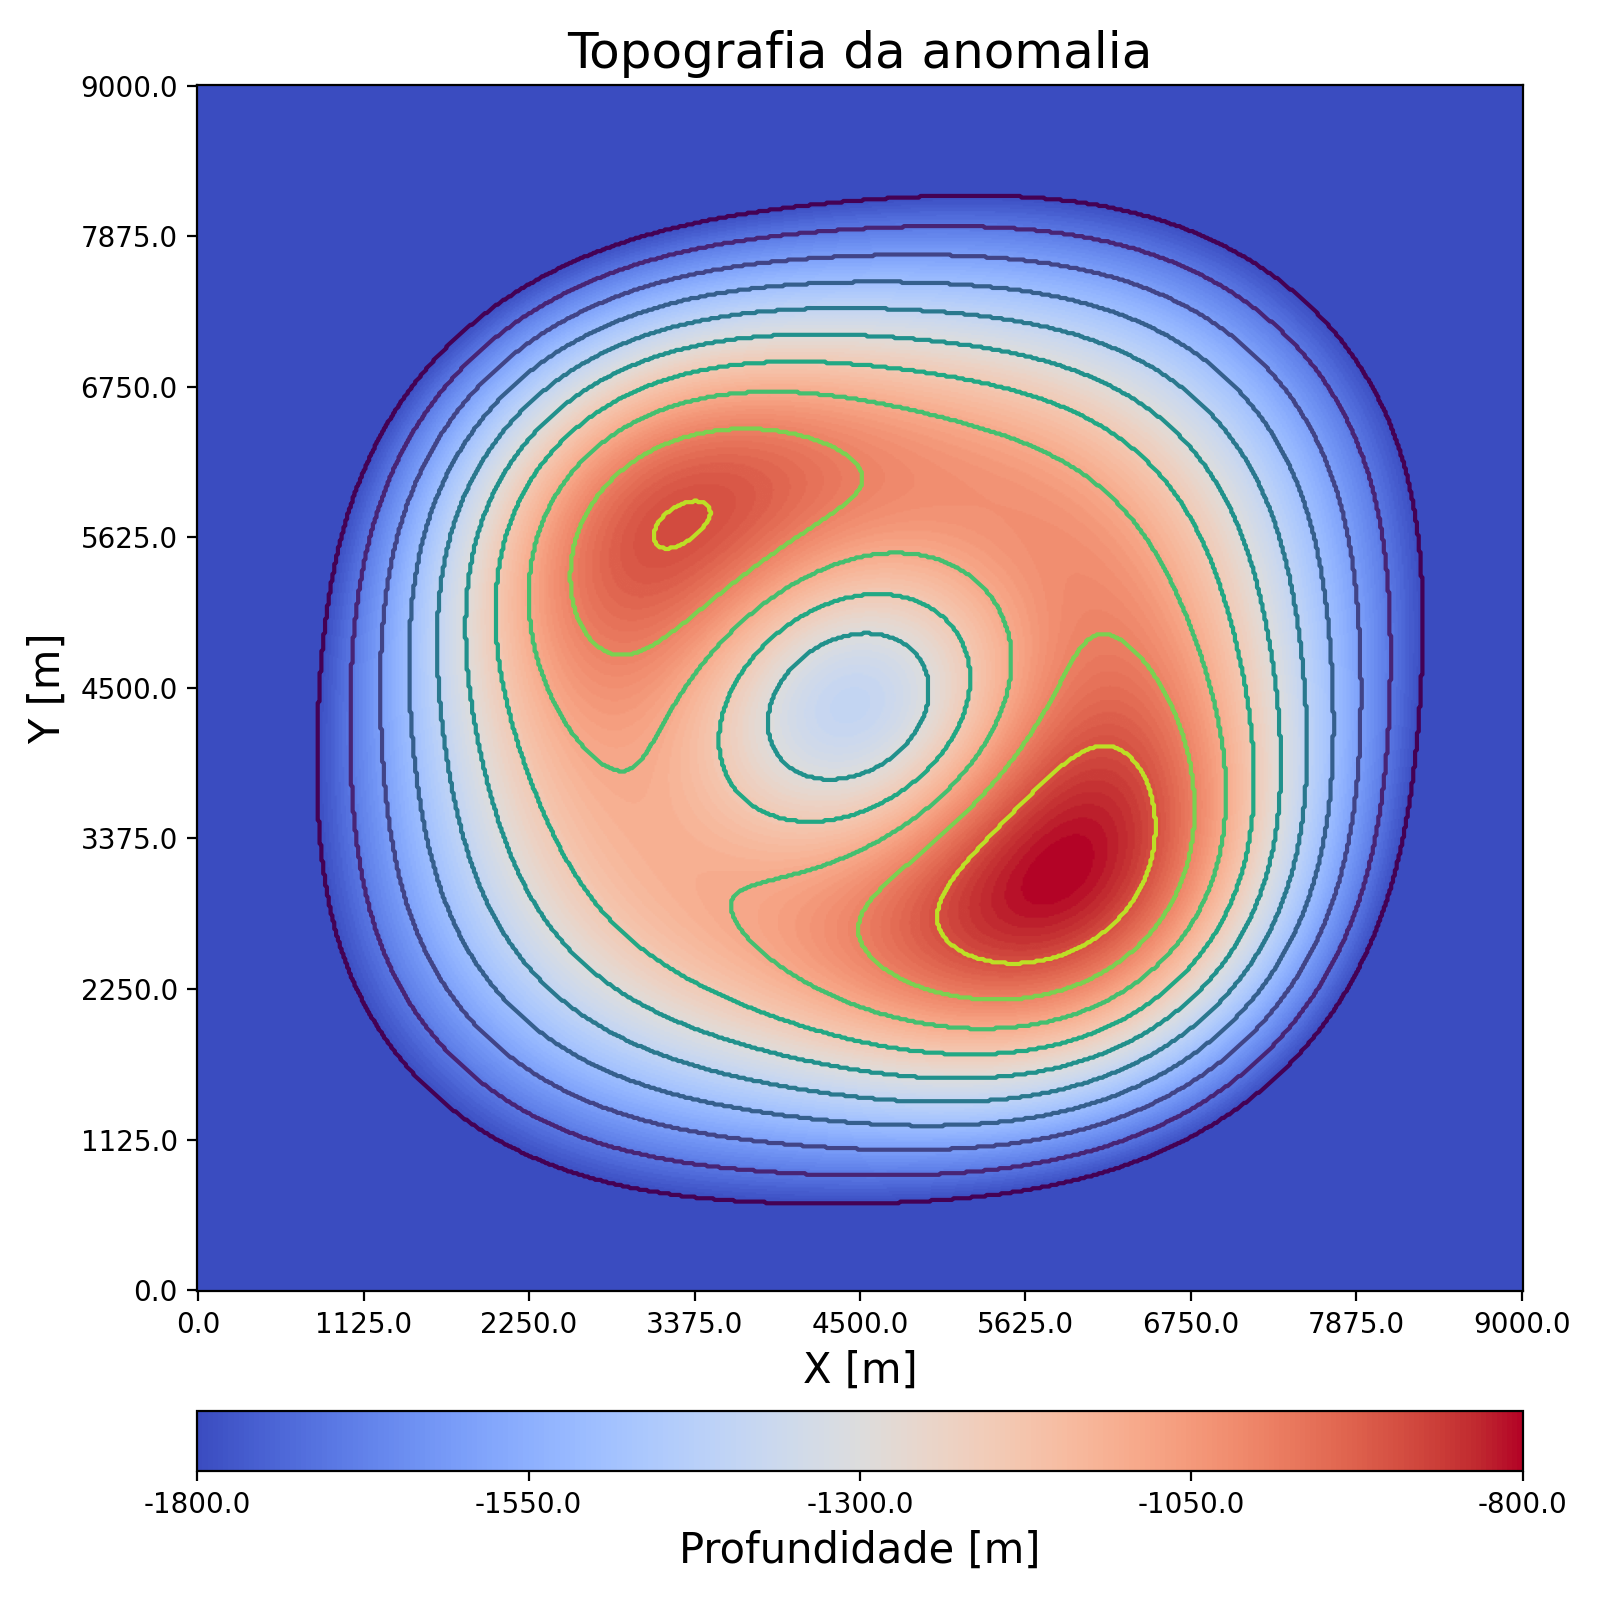
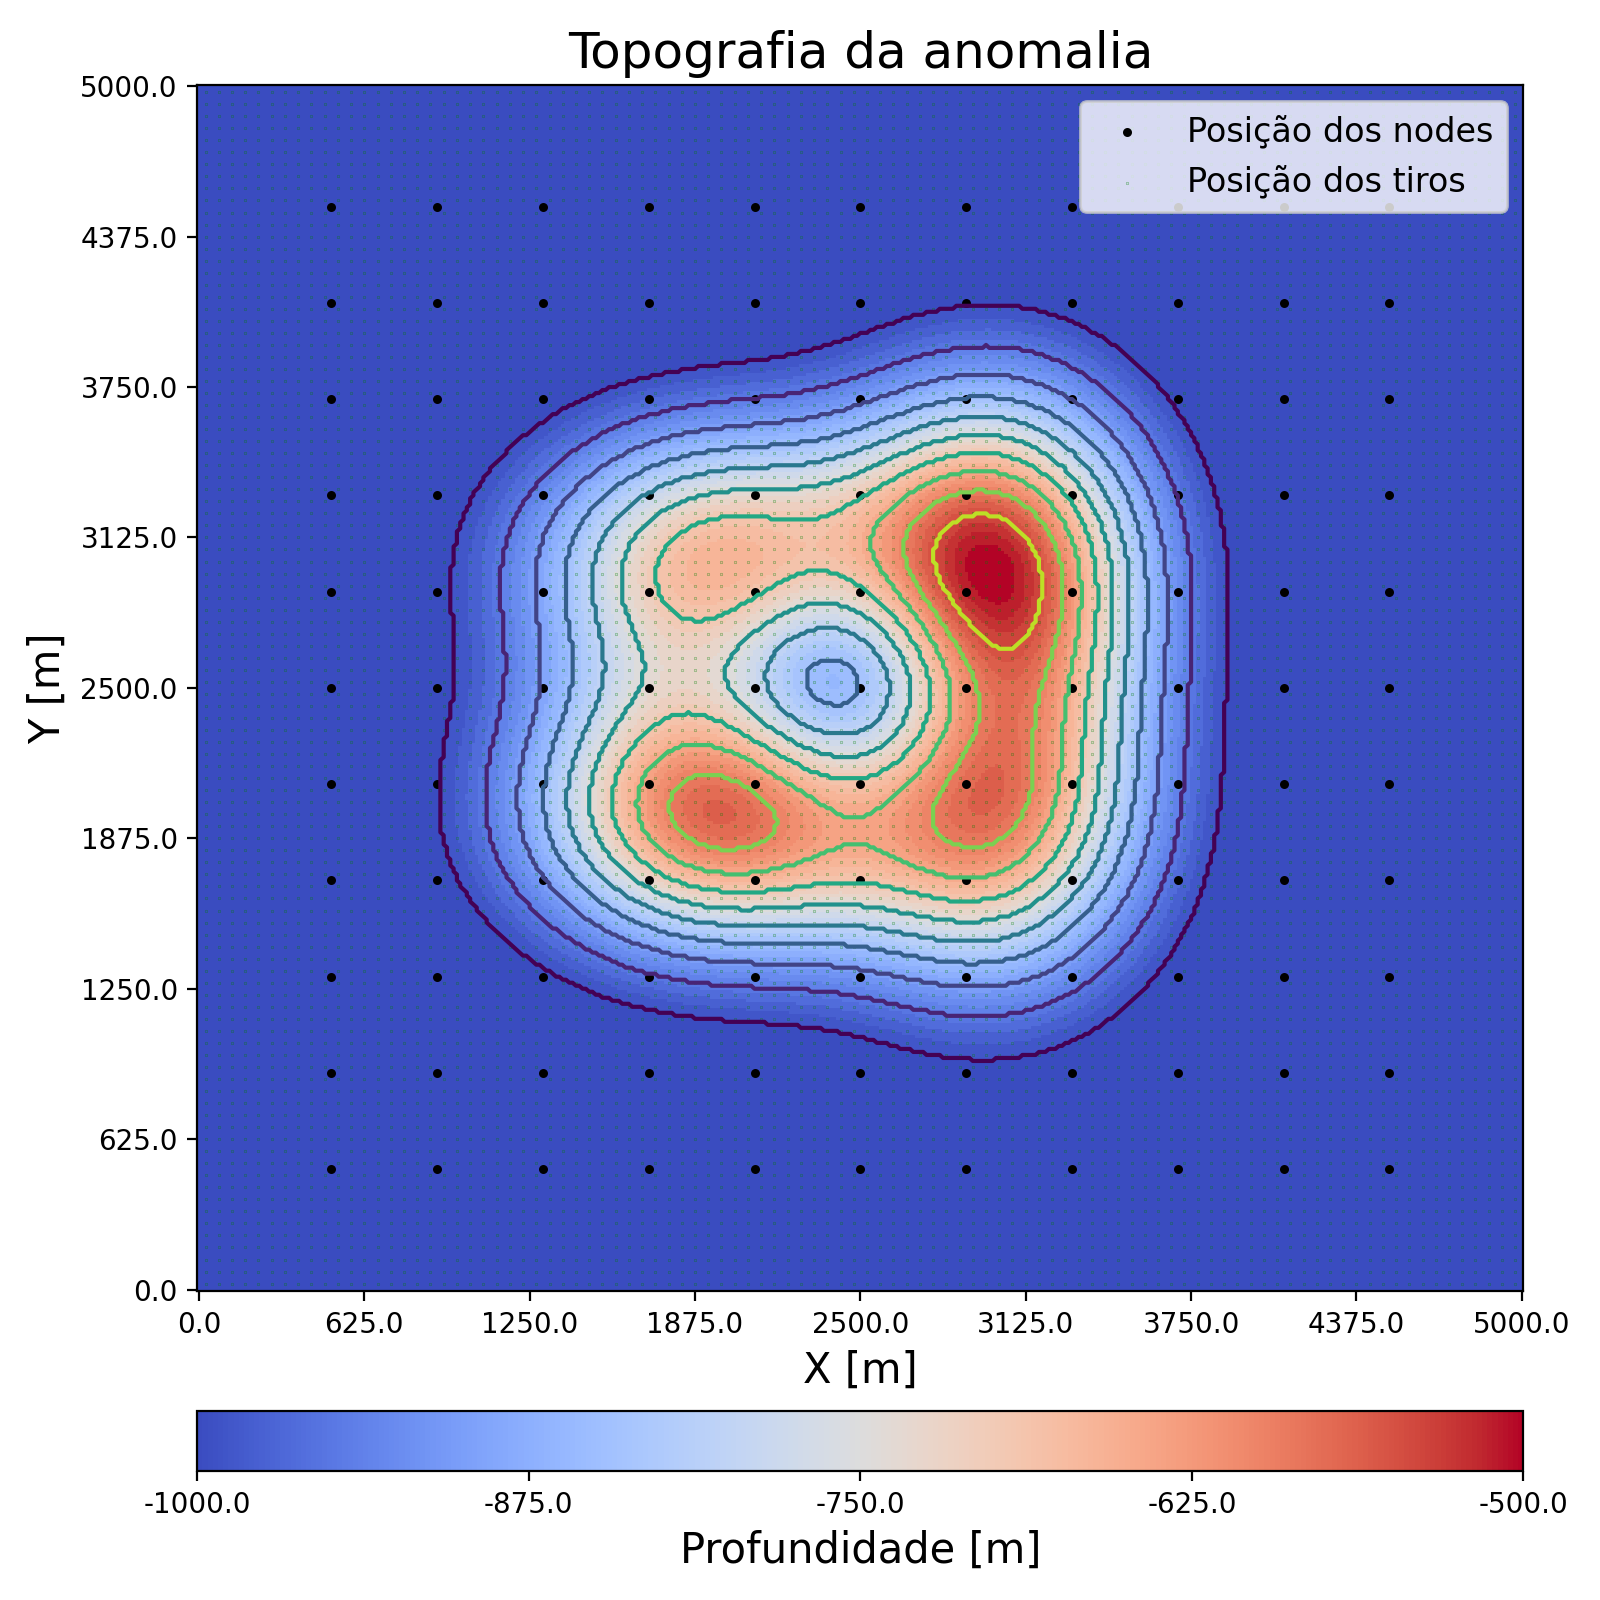
model reconfigured

diff --git a/main/analysis/2_experiment_config.py b/main/analysis/2_experiment_config.py
@@ -12,27 +12,22 @@ dx = 12.5
 dy = 12.5
 dz = 12.5
 
-nx = 721
-ny = 721
-nz = 161
-
-# testing GPU 4Gb memory using an homogeneous model
-
-# memCheckModel = np.ones((nz, nx, ny)) * 1500
-# memCheckModel.flatten("F").astype("float32", order = "F").tofile(f"../../inputs/models/memCheckModel_{nz}x{nx}x{ny}_{dz:.1f}m.bin")
+nx = 401
+ny = 401
+nz = 101
 
 #----------------------------------------------------------------------------
 
 waterBottom = np.zeros((ny,nx))
 
-top = 450      
-base = 550
+top = 200      
+base = 300
 
-A = np.array([50, 80, -150])
-xc = np.array([1000, 7000, 4500])
-yc = np.array([7000, 7000, 4550])
-sigx = np.array([6000, 6000, 3000])
-sigy = np.array([4000, 6000, 6000])
+A = np.array([10, 50, 100])
+xc = np.array([1000, 2500, 4500])
+yc = np.array([1000, 2500, 4500])
+sigx = np.array([1000, 1000, 1000])
+sigy = np.array([1000, 1000, 6000])
 
 for k in range(len(A)):
     waterBottom += createGaussianSurface(nx,ny,dx,dy,A[k],xc[k],yc[k],sigx[k],sigy[k])
@@ -44,12 +39,12 @@ waterBottom[i,j] = base/dz
 
 # Defining geometry with topography
 
-node_xline = 15
-node_yline = 15
+node_xline = 11
+node_yline = 11
 node_all = node_xline * node_yline
 
-node_x = np.linspace(1000, 8000, node_xline)
-node_y = np.linspace(1000, 8000, node_yline)
+node_x = np.linspace(500, 4500, node_xline)
+node_y = np.linspace(500, 4500, node_yline)
 node_z = np.zeros(node_all)
 
 for i in range(node_yline):
@@ -62,12 +57,12 @@ node_x, node_y = np.meshgrid(node_x, node_y)
 node_x = np.reshape(node_x, [node_all])
 node_y = np.reshape(node_y, [node_all])
 
-shot_xline = 177
-shot_yline = 177
+shot_xline = 100
+shot_yline = 100
 shot_all = shot_xline * shot_yline
 
-shot_x = np.linspace(100, 8900, shot_xline)
-shot_y = np.linspace(100, 8900, shot_yline)
+shot_x = np.linspace(25, 4975, shot_xline)
+shot_y = np.linspace(25, 4975, shot_yline)
 shot_z = np.ones(shot_all) * 25.0
 
 shot_x, shot_y = np.meshgrid(shot_x, shot_y)
@@ -112,18 +107,18 @@ plt.show()
 
 #----------------------------------------------------------------------------
 
-top = 800
-base = 1800
+top = 500
+base = 1000
 
 model = np.zeros((nz,nx,ny))
 
 surface = np.zeros((ny, nx))
 
-A = np.array([1000, 900, -850, 1000, 1100])
-xc = np.array([3000, 3000, 4500, 6000, 6000])
-yc = np.array([2875, 5875, 4375, 2875, 5875])
-sigx = np.array([2000, 1500, 1000, 1500, 2000])
-sigy = np.array([2000, 1500, 1000, 1500, 2000])
+A = np.array([500, 400, -300, 400, 500])
+xc = np.array([2000, 3000, 2500, 2000, 3000])
+yc = np.array([2000, 2000, 2500, 3000, 3000])
+sigx = np.array([500, 400, 400, 500, 400])
+sigy = np.array([400, 500, 400, 400, 500])
 
 for k in range(len(A)):
     surface += createGaussianSurface(nx,ny,dx,dy,A[k],xc[k],yc[k],sigx[k],sigy[k])
@@ -142,6 +137,8 @@ smax = np.max(-dz*surface)
 
 ax.contour(-dz*surface, levels = 10)
 ax.imshow(-dz*surface, aspect = "auto", cmap=cmap)
+ax.scatter(node_x/dx, node_y/dy, c = "black", s = 5.0, label = "Posição dos nodes")
+ax.scatter(shot_x/dx, shot_y/dy, c = "green", s = 0.01, label = "Posição dos tiros")
 
 ax.set_xticks(np.linspace(0,nx-1,9, dtype = int))
 ax.set_xticklabels(np.around(np.linspace(0,nx-1,9)*dx, decimals = 1))
@@ -161,6 +158,7 @@ cax = divider.append_axes("bottom", size="5%", pad=0.6)
 cbar = fig.colorbar(mpl.cm.ScalarMappable(norm=norm, cmap=cmap), cax = cax, ticks = np.linspace(smin, smax, 5), orientation = "horizontal")
 cbar.ax.set_xticklabels(np.around(np.linspace(smin, smax, 5), decimals = 1))
 cbar.set_label("Profundidade [m]", fontsize = 15)
+ax.legend(loc = "upper right", fontsize = 12)
 
 plt.tight_layout()
 plt.savefig("../../figures/3_anomalySurface.png", dpi = 200)
@@ -168,10 +166,12 @@ plt.show()
 
 #----------------------------------------------------------------------------
 v0 = 1550.0 # m/s
-dv = 17.0   # m/s
+dv = 25.0   # m/s
+
+wb = 250
 
 v = np.array([1500,2000,3500])
-z = np.array([500,base,nz*dz])
+z = np.array([wb,base,nz*dz])
 
 initModel = buildModel3D(nx,ny,nz,v,z//dz)
 
@@ -185,8 +185,8 @@ for j in range(nx):
         model[gradient, j, k] = v0 + dv*np.arange(nGradient)
 
         initModel[int(base/dz):,j,k] = v[-1]
-        initModel[:int(500/dz), j, k] = v[0]
-        initModel[int(500/dz):int(base/dz), j, k] = v0 + dv*np.arange((int(base/dz)-int(500/dz)))
+        initModel[:int(wb/dz), j, k] = v[0]
+        initModel[int(wb/dz):int(base/dz), j, k] = v0 + dv*np.arange((int(base/dz)-int(wb/dz)))
         
 #----------------------------------------------------------------------------
 
@@ -216,6 +216,6 @@ plt.savefig("../../figures/4_benchmark_models.png")
 plt.show()
 
 # Low frequency initial model
-initModel[::4,::4,::4].flatten("F").astype("float32", order = "F").tofile(f"../../inputs/models/initModel_{nz/4 + 1:.0f}x{nx/4 + 1:.0f}x{ny/4 + 1:.0f}_{4*dx:.0f}m.bin")
+initModel.flatten("F").astype("float32", order = "F").tofile(f"../../inputs/models/initModel_{nz}x{nx}x{ny}_{dx:.1f}m.bin")
 model.flatten("F").astype("float32", order = "F").tofile(f"../../inputs/models/trueModel_{nz}x{nx}x{ny}_{dx:.1f}m.bin")
 

diff --git a/main/analysis/3_automatic_picking.py b/main/analysis/3_automatic_picking.py
@@ -10,32 +10,32 @@ from scipy.ndimage import median_filter
 #--------------------------------------------------------------------
 start = timeit.default_timer()
 
-nt = 5001
-traces = 177
-nodes_all = 225 
-shots_all = 31329
+nt = 3001
+traces = 100
+nodes_all = 121 
+shots_all = 10000
 
 dt = 1e-3
 
 fw = 11
 
-# for node in range(nodes_all): 
+for node in range(nodes_all): 
 
-#     rawPicks_all = readBinaryArray(shots_all, f"../../inputs/picks/rawPicks_shot_{node+1}_{shots_all}_samples.bin")
-#     output_picks = np.zeros(shots_all)
+    rawPicks_all = readBinaryArray(shots_all, f"../../inputs/picks/rawPicks_shot_{node+1}_{shots_all}_samples.bin")
+    output_picks = np.zeros(shots_all)
 
-#     for line in range(traces):
+    for line in range(traces):
 
-#         window = slice(int(line*shots_all/traces),int((line+1)*shots_all/traces))
+        window = slice(int(line*shots_all/traces),int((line+1)*shots_all/traces))
 
-#         rawPicks = rawPicks_all[window].copy()    
+        rawPicks = rawPicks_all[window].copy()    
 
-#         rawPicks[int(fw/2):-int(fw/2)] = median_filter(rawPicks[int(fw/2):-int(fw/2)], fw)
+        rawPicks[int(fw/2):-int(fw/2)] = median_filter(rawPicks[int(fw/2):-int(fw/2)], fw)
 
-#         output_picks[window] = savgol_filter(rawPicks, fw, 2)     
+        output_picks[window] = savgol_filter(rawPicks, fw, 2)     
 
-#     print(f"File ../../inputs/picks/obsData_{shots_all}_samples_shot_{node+1}.bin was written successfully.")
-#     output_picks.astype("float32", order = "F").tofile(f"../../inputs/picks/obsData_{shots_all}_samples_shot_{node+1}.bin")
+    print(f"File ../../inputs/picks/obsData_{shots_all}_samples_shot_{node+1}.bin was written successfully.")
+    output_picks.astype("float32", order = "F").tofile(f"../../inputs/picks/obsData_{shots_all}_samples_shot_{node+1}.bin")
 
 stop = timeit.default_timer()
 print('Run time: ', stop - start)  
@@ -56,16 +56,20 @@ xloc = np.linspace(0, traces-1, 11, dtype = int)
 xlab = np.linspace(0, traces, 11, dtype = int)
 
 for node in range(nodes_all):
-
+    seismic_all = readBinaryMatrix(nt, shots_all, f"../../inputs/seismograms/seismogram_{nt}x{shots_all}_shot_{node+1}.bin") 
     rawPicks_all = readBinaryArray(shots_all, f"../../inputs/picks/rawPicks_shot_{node+1}_{shots_all}_samples.bin")
     output_picks = readBinaryArray(shots_all, f"../../inputs/picks/obsData_{shots_all}_samples_shot_{node+1}.bin")
 
+    seismic = seismic_all[times, :]    
+
+    scale = 0.5 * np.std(seismic)
+
     plt.figure(1, figsize = (20, 5))
+    plt.imshow(seismic, aspect = "auto", cmap = "Greys", vmin = -scale, vmax = scale)
     plt.plot(rawPicks_all/dt, "o")
     plt.plot(output_picks/dt, "o")
     plt.title(f"{node+1}")
     plt.xlim([0, shots_all])
-    plt.gca().invert_yaxis()
     plt.tight_layout()
     plt.show()
 

diff --git a/main/analysis/3_automatic_picking.cpp b/main/analysis/3_automatic_picking.cpp
@@ -13,18 +13,18 @@ int main()
 
     auto ti = std::chrono::system_clock::now();
 
-    int nt = 5001;
-    int traces = 177;
-    int nodes_all = 225; 
-    int shots_all = 31329;
+    int nt = 3001;
+    int traces = 100;
+    int nodes_all = 121; 
+    int shots_all = 10000;
 
     float dt = 1e-3f;
-    float tlag = 0.15f;
-    float tcut = 4.50f;
+    float tlag = 0.10f;
+    float tcut = 2.80f;
 
     int updated_nt = (int)(tcut/dt);
 
-    float window = 0.100;
+    float window = 0.060f;
     int iw = (int)(window/dt);
 
     int itime = (int)(tlag/dt);
@@ -72,7 +72,7 @@ int main()
                 
                 if (S[k] > 1e-5f)
                 {
-                    picks_all[trace] = (k + iw + iw/2) * dt;            
+                    picks_all[trace] = (k + iw) * dt;            
                     break;
                 }
             }    

diff --git a/main/analysis/all_functions.py b/main/analysis/all_functions.py
@@ -190,7 +190,7 @@ def multiBoxPlot(models:np.ndarray, shots:np.ndarray, nodes:np.ndarray, dh:np.nd
         vmax = np.max(models[0])
 
     nz, nx, ny = modelShape
-    [z, x, y] = 3.0 * (minModelDistance / maxModelDistance) * modelShape / maxModelDistance
+    [z, x, y] = 2.0 * (minModelDistance / maxModelDistance) * modelShape / maxModelDistance
 
     px = 1/plt.rcParams['figure.dpi']  
     ticks = np.array([3,7,7], dtype = int)
